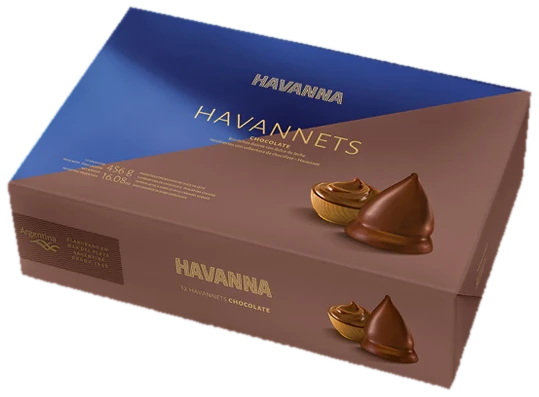
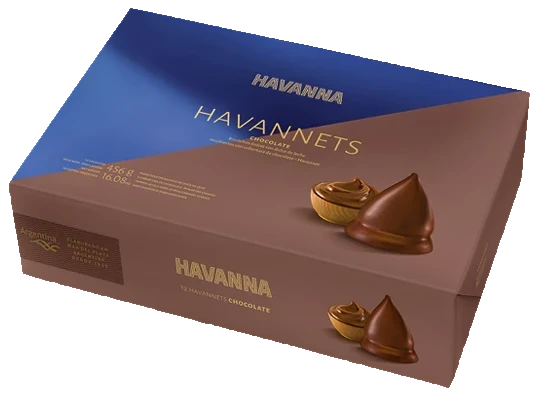
Mejoras de diseño: hero, sección adentro y cada caja su color
- Hero: tapa que se dobla en la línea roja del marco, botones a los costados
  (Comprar como botón, Buscar un café como link) y sin "Abrí la caja".
- Lo que hay adentro: números en círculos rojos con latido lento, nombres sin
  contenedor, chocolates más abajo y sin "Y estos, enteros, para después".
- Cada caja, su color: título en una línea y tarjetas debajo en cualquier alto
  de pantalla, scroll más lento al abrir los paneles, contenido que entra
  entre el nav y el índice, y el índice marca el panel correcto.
- Fotos: recortes limpios (piso y halos del fondo original) en las cajas y
  en las galletitas con limón.

diff --git a/styles.css b/styles.css
@@ -81,6 +81,9 @@ ul, ol { padding: 0; list-style: none; }
 .cabecera { position: fixed; inset: 0 0 auto; z-index: 50; height: var(--cabecera); padding: 0 var(--margen); display: flex; align-items: center; gap: 1rem; transition: background .35s, box-shadow .35s; }
 .cabecera.con-fondo { background: var(--amarillo); box-shadow: 0 1px 0 rgba(42, 23, 16, .15); }
 /* con la caja cerrada la marca ya está en la tapa: la cabecera no la repite */
+/* mientras la caja está cerrada o abriéndose, el nav es el borde amarillo de la caja: tapa lo que gira detrás */
+/* la sombra amarilla cubre los 4px entre el nav y la bisagra; al abrirse la caja desaparece con la clase */
+.cabecera.en-tapa { background: var(--amarillo); box-shadow: 0 .25rem 0 var(--amarillo); }
 .cabecera.en-tapa .cabecera__logo { opacity: 0; pointer-events: none; }
 .cabecera__logo { margin-right: auto; min-height: 2.75rem; display: flex; align-items: center; transition: opacity .4s; }
 .cabecera__logo img { width: 8.5rem; }
@@ -110,7 +113,9 @@ ul, ol { padding: 0; list-style: none; }
 /* ---------- 1 · la caja ---------- */
 
 .caja { position: relative; height: 100svh; }
-.caja__escena { position: relative; height: 100svh; overflow: hidden; perspective: 1800px; background: var(--crema); }
+.caja__escena { position: relative; height: 100svh; overflow: hidden; perspective: 1800px; perspective-origin: 50% calc(var(--cabecera) + .25rem); background: var(--crema); }
+/* el borde amarillo de la caja, arriba de la bisagra: se desvanece (--tira) cuando la tapa termina de abrirse */
+.caja__escena::before { content: ""; position: absolute; inset: 0 0 auto; height: calc(var(--cabecera) + .25rem); z-index: 4; background: var(--amarillo); opacity: var(--tira, 1); pointer-events: none; }
 
 /* el frente: igual que la caja real, amarillo con filete doble, logo y el producto */
 .frente {
@@ -118,7 +123,10 @@ ul, ol { padding: 0; list-style: none; }
   background: var(--amarillo);
   display: grid; grid-template-rows: 1fr auto;
   padding: calc(var(--cabecera) + 1.75rem) calc(var(--margen) + .75rem) 2.25rem;
-  transform-origin: 50% 0;
+  /* la bisagra de la tapa es la línea roja de arriba del marco */
+  transform-origin: 50% calc(var(--cabecera) + .25rem);
+  /* la tapa empieza en la bisagra: lo de arriba es el borde fijo de la caja y no gira */
+  clip-path: inset(calc(var(--cabecera) + .25rem) 0 0 0);
   backface-visibility: hidden;
   will-change: transform;
 }
@@ -138,26 +146,54 @@ ul, ol { padding: 0; list-style: none; }
 .frente__alfajor { height: min(36svh, 72vw); width: auto; margin-top: 1.5rem; filter: drop-shadow(0 26px 28px rgba(122, 61, 0, .38)); will-change: transform; }
 .frente__pie { display: grid; justify-items: center; gap: .85rem; }
 .frente__acciones { display: flex; flex-wrap: wrap; justify-content: center; gap: .6rem; width: 100%; max-width: 28rem; }
-.frente__acciones .boton { flex: 1 1 11rem; }
+.frente__acciones { flex-direction: column; align-items: center; }
+.frente__acciones .boton { align-self: stretch; }
+/* botones del hero: píldora, con relieve suave y una flecha que avanza */
+.frente__acciones .boton {
+  min-height: 3.5rem; border-radius: 999px; border-width: 1.5px; padding: 0 1.6rem;
+  font-weight: 650; letter-spacing: .01em;
+  transition: background .3s, color .3s, border-color .3s, box-shadow .35s var(--curva), transform .35s var(--curva);
+}
+.frente__acciones .boton svg { width: 1.15rem; height: 1.15rem; fill: none; stroke: currentColor; stroke-width: 2; stroke-linecap: round; stroke-linejoin: round; }
+.frente__acciones .boton--rojo {
+  padding-right: .45rem; gap: .9rem;
+  border: 0; box-shadow: 0 10px 24px -10px rgba(181, 30, 18, .7);
+}
+.boton__flecha { display: grid; place-items: center; width: 2.6rem; height: 2.6rem; border-radius: 50%; background: var(--crema); color: var(--rojo); transition: transform .35s var(--curva); }
+/* "Buscar un café" es un link, no un botón: acompaña sin competir con "Comprar" */
+.frente__link {
+  display: inline-flex; align-items: center; gap: .5rem; min-height: 3rem; padding: 0 .25rem;
+  font: 600 .95rem/1 var(--texto); color: var(--choco); text-decoration: none;
+}
+.frente__link svg { width: 1.1rem; height: 1.1rem; fill: none; stroke: currentColor; stroke-width: 2; stroke-linecap: round; stroke-linejoin: round; flex: none; }
+.frente__link span { background: linear-gradient(currentColor, currentColor) 0 100% / 100% 1.5px no-repeat; padding-bottom: .2rem; transition: background-size .35s var(--curva); }
+.frente__link:focus-visible { outline: 2px solid var(--choco); outline-offset: 3px; border-radius: .25rem; }
+@media (hover: hover) {
+  .frente__acciones .boton:hover { transform: translateY(-2px); }
+  .frente__acciones .boton--rojo:hover { box-shadow: 0 16px 30px -12px rgba(181, 30, 18, .8); }
+  .frente__acciones .boton--rojo:hover .boton__flecha { transform: translateX(3px) rotate(-45deg); }
+  .frente__link:hover { color: var(--rojo); }
+  .frente__link:hover span { background-size: 0 1.5px; background-position: 100% 100%; }
+}
+.frente__acciones .boton:active { transform: translateY(0) scale(.97); }
+.frente__acciones .boton:focus-visible { outline: 2px solid var(--choco); outline-offset: 3px; }
 .frente__envio { display: flex; align-items: center; gap: .45rem; font-size: .85rem; color: var(--choco-medio); }
 .frente__envio::before { content: ""; width: .45rem; height: .45rem; border-radius: 50%; background: var(--rojo); }
-.frente__abrir { display: none; }
 
 @media (min-width: 64rem) {
-  .frente { padding-bottom: 2.75rem; }
+  /* sin fila de botones abajo: el centro tiene todo el alto y el logo no se sale hacia el marco */
+  /* más aire arriba: el logo arranca bien por debajo del filete del marco y no lo toca */
+  .frente { grid-template-rows: 1fr; padding-top: calc(var(--cabecera) + 3.5rem); padding-bottom: 2.75rem; }
   .frente__esquina { font-size: .72rem; }
   .frente__esquina--izq { left: 1.6rem; }
   .frente__esquina--der { right: 1.6rem; }
   .frente__alfajor { height: min(40svh, 26rem); }
-  .frente__abrir {
-    position: absolute; right: 3rem; bottom: 2.75rem;
-    display: grid; justify-items: center; gap: .55rem;
-    border: 0; background: none; padding: 0; cursor: pointer;
-    font: 600 .7rem/1 var(--texto); letter-spacing: .16em; text-transform: uppercase; color: var(--choco);
-  }
-  .frente__abrir i { width: 1px; height: 2.25rem; background: currentColor; animation: bajar 1.8s var(--curva) infinite; }
+  /* un botón en cada costado, abajo; el centro queda libre para el alfajor */
+  .frente__pie { position: absolute; left: 3rem; right: 3rem; bottom: 2.75rem; z-index: 1; justify-items: start; pointer-events: none; }
+  .frente__acciones { flex-direction: row; align-items: center; justify-content: space-between; flex-wrap: nowrap; max-width: none; }
+  .frente__acciones .boton { align-self: auto; }
+  .frente__acciones .boton, .frente__link { flex: none; pointer-events: auto; }
 }
-@keyframes bajar { 0% { transform: scaleY(0); transform-origin: top; } 50% { transform: scaleY(1); transform-origin: top; } 51% { transform-origin: bottom; } 100% { transform: scaleY(0); transform-origin: bottom; } }
 
 /* adentro de la caja: alfajores enteros apilados y uno partido apoyado */
 .adentro { position: absolute; inset: 0; display: grid; place-items: center; align-content: center; gap: 1.5rem; padding-top: var(--cabecera); }
@@ -170,18 +206,21 @@ ul, ol { padding: 0; list-style: none; }
 /* cada alfajor apoya sobre la tapa del de abajo (la tapa ocupa el 11% de su alto) */
 .apilado__alfajor { position: absolute; left: 0; bottom: calc(var(--i) * var(--a) * .62); width: 100%; z-index: var(--i); filter: drop-shadow(0 10px 12px rgba(42, 23, 16, .25)); will-change: transform; }
 .apilado__alfajor--espejo { transform: scaleX(-1); }
-.apilado__nota { display: none; }
 
 .partido { position: relative; width: calc(var(--a) * 1.05); margin-left: calc(var(--a) * -.1); z-index: 5; }
 .partido img { width: 100%; filter: drop-shadow(0 18px 18px rgba(42, 23, 16, .28)); }
 /* el punto marca la capa; en el celu lleva el número y la referencia va abajo */
 .partido__nota { position: absolute; left: var(--x); top: var(--y); transform: translate(-50%, -50%); }
-.partido__nota b { display: grid; place-items: center; width: 1.35rem; height: 1.35rem; border-radius: 50%; background: var(--crema); color: var(--choco); font: 700 .7rem/1 var(--texto); box-shadow: 0 0 0 2px var(--rojo), 0 4px 10px rgba(42, 23, 16, .3); }
-.partido__nota span { display: none; }
+/* número: punto rojo con halo crema, como un pin sobre la capa */
+.partido__nota b, .leyenda b {
+  display: grid; place-items: center; width: 1.5rem; height: 1.5rem; border-radius: 50%;
+  background: var(--rojo); color: var(--crema); font: 700 .72rem/1 var(--texto); font-variant-numeric: tabular-nums;
+  box-shadow: 0 0 0 3px rgba(255, 246, 222, .9), 0 6px 14px -4px rgba(42, 23, 16, .45);
+}
+.partido__nota i, .partido__nota span { display: none; }
 
-.leyenda { display: flex; flex-wrap: wrap; justify-content: center; gap: .5rem 1.1rem; padding: 0 var(--margen); font: 600 .78rem/1 var(--texto); }
-.leyenda li { display: flex; align-items: center; gap: .4rem; }
-.leyenda b { display: grid; place-items: center; width: 1.25rem; height: 1.25rem; border-radius: 50%; background: var(--crema); box-shadow: 0 0 0 2px var(--rojo); font-size: .66rem; }
+.leyenda { display: flex; flex-wrap: wrap; justify-content: center; gap: .6rem 1.2rem; padding: 0 var(--margen); font: 600 .78rem/1 var(--texto); }
+.leyenda li { display: flex; align-items: center; gap: .5rem; }
 
 .volador { position: absolute; inset: 0; pointer-events: none; }
 .volador img { position: absolute; left: 50%; top: 52%; width: calc(var(--w) * 1vw + 3rem); filter: var(--sombra-producto); opacity: 0; will-change: transform; }
@@ -190,20 +229,29 @@ ul, ol { padding: 0; list-style: none; }
 
 @media (min-width: 64rem) {
   .mesa { --a: min(16vw, 30svh, 17rem); margin-top: 3rem; }
-  .apilado__nota {
-    display: flex; align-items: center; gap: .6rem;
-    position: absolute; right: calc(100% + .5rem); top: 45%;
-    font: italic 400 1.15rem/1.15 var(--nota); color: var(--choco-medio); white-space: nowrap;
-  }
-  .apilado__nota::after { content: ""; width: 2.5rem; height: 1.5px; background: var(--choco); }
-  /* en compu la etiqueta sale del punto con una línea hasta el costado derecho */
+  /* en compu: el número va en un círculo rojo que late; de ahí sale una línea fina hasta el nombre */
   .partido { container-type: inline-size; }
-  .partido__nota { display: flex; align-items: center; transform: translate(-.675rem, -50%); }
-  .partido__nota b { flex: none; }
-  .partido__nota span { display: flex; align-items: center; gap: .6rem; font: 700 .8rem/1 var(--texto); letter-spacing: .08em; text-transform: uppercase; white-space: nowrap; }
-  .partido__nota span::before { content: ""; width: calc((100% - var(--x)) * 1 + 2.5rem); width: calc((100 - var(--n)) * 1cqw + 2.5rem); height: 1.5px; background: var(--choco); box-shadow: 0 0 0 1px rgba(255, 246, 222, .5); }
+  .partido__nota { display: flex; align-items: center; transform: translate(-.6rem, -50%); --retraso: 0s; }
+  .partido__nota:nth-of-type(2) { --retraso: .7s; }
+  .partido__nota:nth-of-type(3) { --retraso: 1.4s; }
+  .partido__nota b { flex: none; position: relative; z-index: 1; width: 1.2rem; height: 1.2rem; font-size: .6rem; box-shadow: 0 0 0 2.5px rgba(255, 246, 222, .9), 0 4px 10px -3px rgba(42, 23, 16, .45); }
+  .partido__nota b::before, .partido__nota b::after {
+    content: ""; position: absolute; inset: 0; z-index: -1; border-radius: 50%; border: 1.5px solid var(--rojo);
+    animation: latido 4.2s cubic-bezier(.25, .6, .35, 1) var(--retraso) infinite both;
+  }
+  .partido__nota b::after { animation-delay: calc(var(--retraso) + 2.1s); }
+  .partido__nota i {
+    display: block; position: relative; flex: none; height: 1px; margin-left: 3px;
+    width: calc((100 - var(--n)) * 1cqw + 2.5rem);
+    background: linear-gradient(90deg, rgba(42, 23, 16, .1), var(--choco));
+  }
+  .partido__nota span {
+    display: block; margin-left: .8rem;
+    font: 700 .78rem/1 var(--texto); letter-spacing: .1em; text-transform: uppercase; white-space: nowrap; color: var(--choco);
+  }
   .leyenda { display: none; }
   .volador img { width: calc(var(--w) * .8vw + 3rem); }
+  @keyframes latido { 0% { transform: scale(1); opacity: .7; } 100% { transform: scale(2.8); opacity: 0; } }
   .volador img[data-solo-compu] { display: block; }
 }
 
@@ -222,13 +270,16 @@ ul, ol { padding: 0; list-style: none; }
 .lineas__titulo { position: absolute; top: calc(var(--cabecera) + 1.25rem); left: var(--margen); font: 900 clamp(2.6rem, 10vw, 5.5rem)/.86 var(--display); text-transform: uppercase; }
 .lineas__titulo .hueco { -webkit-text-stroke-color: var(--choco); }
 
+/* --t y --b registradas como longitudes: el navegador las resuelve a px y GSAP las anima sin mezclar unidades */
+@property --t { syntax: '<length-percentage>'; inherits: true; initial-value: 0px; }
+@property --b { syntax: '<length-percentage>'; inherits: true; initial-value: 0px; }
 /* cada panel es de pantalla completa; el recorte lo muestra como tarjeta hasta que se abre */
 .panel { position: absolute; inset: 0; background: var(--fondo); color: var(--tinta); clip-path: inset(var(--t) var(--r) var(--b) var(--l) round var(--radio)); --radio: 1rem; }
 /* celu: 2 x 2 con el mismo margen entre tarjetas que contra los bordes, y aire sobre el índice */
-.panel:nth-of-type(1) { --t: 30%; --r: 51.5%; --b: 40.5%; --l: 5%; }
-.panel:nth-of-type(2) { --t: 30%; --r: 5%; --b: 40.5%; --l: 51.5%; }
-.panel:nth-of-type(3) { --t: 62.5%; --r: 51.5%; --b: 10%; --l: 5%; }
-.panel:nth-of-type(4) { --t: 62.5%; --r: 5%; --b: 10%; --l: 51.5%; }
+.panel:nth-of-type(1) { --t: 30svh; --r: 51.5%; --b: 40.5svh; --l: 5%; }
+.panel:nth-of-type(2) { --t: 30svh; --r: 5%; --b: 40.5svh; --l: 51.5%; }
+.panel:nth-of-type(3) { --t: 62.5svh; --r: 51.5%; --b: 10svh; --l: 5%; }
+.panel:nth-of-type(4) { --t: 62.5svh; --r: 5%; --b: 10svh; --l: 51.5%; }
 
 /* la tarjeta sigue al recorte: su caja crece con él */
 .panel__tarjeta { position: absolute; inset: var(--t) var(--r) var(--b) var(--l); display: grid; grid-template-rows: minmax(0, 1fr) auto; gap: .75rem; padding: 1.25rem 1.1rem 1.1rem; border: 0; background: none; color: inherit; font: inherit; text-align: left; cursor: pointer; }
@@ -284,19 +335,34 @@ ul, ol { padding: 0; list-style: none; }
 .panel__fotos img:nth-child(3) { transform: rotate(-2deg); }
 
 @media (min-width: 64rem) {
-  /* compu: cuatro tarjetas de 21.5% con 2% de margen entre ellas */
-  .panel:nth-of-type(1) { --t: 33%; --r: 74.5%; --b: 13%; --l: 4%; }
-  .panel:nth-of-type(2) { --t: 33%; --r: 51%; --b: 13%; --l: 27.5%; }
-  .panel:nth-of-type(3) { --t: 33%; --r: 27.5%; --b: 13%; --l: 51%; }
-  .panel:nth-of-type(4) { --t: 33%; --r: 4%; --b: 13%; --l: 74.5%; }
+  /* compu: el título va en una línea y su tamaño sigue al alto de la pantalla */
+  .lineas { --titulo: clamp(2.8rem, min(5.5vw, 11svh), 5.5rem); }
+  .lineas__titulo { font-size: var(--titulo); white-space: nowrap; }
+  .lineas__titulo br { display: none; }
+  .lineas__titulo .hueco { margin-left: .2em; }
+  /* compu: cuatro tarjetas de 21.5% con 2% de margen; arrancan justo debajo del título y terminan sobre el índice */
+  .lineas .panel { --t: calc(var(--cabecera) + 1.25rem + var(--titulo) * .86 + 1.5rem); --b: 5rem; }
+  .panel:nth-of-type(1) { --r: 74.5%; --l: 4%; }
+  .panel:nth-of-type(2) { --r: 51%; --l: 27.5%; }
+  .panel:nth-of-type(3) { --r: 27.5%; --l: 51%; }
+  .panel:nth-of-type(4) { --r: 4%; --l: 74.5%; }
   .panel__tarjeta { padding: 1.4rem; }
   /* compu: contenido en una caja centrada de ancho fijo, con aire a los costados */
-  .panel__contenido { grid-template-columns: minmax(0, 30rem) minmax(0, 1fr); column-gap: clamp(3rem, 6vw, 7rem); align-content: center; justify-content: center; padding: calc(var(--cabecera) + 2rem) clamp(2rem, 7vw, 8rem) 6.5rem; }
+  .panel__contenido { grid-template-columns: minmax(0, 30rem) minmax(0, 1fr); column-gap: clamp(3rem, 6vw, 7rem); align-content: safe center; justify-content: center; row-gap: .7rem; padding: calc(var(--cabecera) + 1.5rem) clamp(2rem, 7vw, 8rem) 5.5rem; }
   .panel__contenido > :not(.panel__fotos) { grid-column: 1; }
-  .panel__nombre { font-size: clamp(4.5rem, 8.5vw, 9rem); }
+  .panel__nombre { font-size: clamp(3.4rem, min(8.5vw, 15svh), 9rem); }
   /* las fotos ocupan exactamente las 5 filas del texto: así el bloque queda centrado igual en todas las líneas */
   .panel__fotos { grid-column: 2; grid-row: 1 / 6; align-self: center; justify-self: center; margin: 0; }
-  .panel__fotos img { width: clamp(12rem, 17vw, 19rem); }
+  .panel__fotos img { width: clamp(11rem, min(17vw, 38svh), 19rem); }
+}
+/* compu con pantalla baja: todo un poco más compacto para que no lo corte el nav */
+@media (min-width: 64rem) and (max-height: 760px) {
+  .panel__contenido { row-gap: .45rem; }
+  .panel__dato { font-size: 1.05rem; }
+  .panel__lista a { padding: .5rem 0; }
+  .panel__item-precio { font-size: 1.15rem; }
+  .panel__pie { margin-top: .35rem; }
+  .panel__pie .boton { min-height: 2.85rem; }
 }
 
 /* ---------- 5 · havanna × leo ---------- */

diff --git a/main.js b/main.js
@@ -140,6 +140,8 @@ if (!sinMovimiento && window.gsap && window.ScrollTrigger) {
     // la tapa gira hacia arriba sobre su borde superior y se oscurece al darse vuelta
     .fromTo('[data-frente]', { rotationX: 0, '--sombra-tapa': 0 }, { rotationX: -96, '--sombra-tapa': .55, duration: 1, ease: 'power2.in' }, 0)
     .set('[data-frente]', { autoAlpha: 0 }, 1)
+    // el borde amarillo de arriba de la bisagra se va recién con la tapa abierta: no asoma el fondo crema
+    .fromTo('.caja__escena', { '--tira': 1 }, { '--tira': 0, duration: .25 }, .9)
     .fromTo('[data-adentro-titulo] span', { yPercent: 60, opacity: 0 }, { yPercent: 0, opacity: 1, stagger: .1, duration: .5, ease: 'power2.out' }, .7)
     .addLabel('abierta', 1.1);
   // los alfajores caen uno por uno y rebotan al apoyarse
@@ -159,10 +161,6 @@ if (!sinMovimiento && window.gsap && window.ScrollTrigger) {
       3 + i * .08);
   });
   caja.to({}, { duration: .6 });
-
-  // el botón y el foco con teclado abren la caja
-  const abrir = () => irA(aScroll(caja, 'abierta'));
-  $('[data-abrir-caja]').addEventListener('click', abrir);
 
   /* cinta: corre sola y acelera con la velocidad del scroll */
   const cinta = gsap.to('[data-cinta]', { xPercent: -50, duration: 22, ease: 'none', repeat: -1 });
@@ -184,29 +182,31 @@ if (!sinMovimiento && window.gsap && window.ScrollTrigger) {
   const botonesIndice = $$('[data-indice] [data-ir-panel]');
   const inicios = paneles.map((_, i) => .5 + i * 1.4);
   const lineas = gsap.timeline({
+    // el índice marca la línea que está a la vista; va en el timeline (no en el scroll) porque
+    // con scrub la animación llega después que el scroll y el índice quedaba un panel atrás
+    onUpdate: () => {
+      const ahora = lineas.time();
+      const activa = inicios.reduce((a, t, i) => (ahora >= t + .5 ? i : a), -1);
+      botonesIndice.forEach((b, i) => {
+        const era = b.getAttribute('aria-current') === 'true';
+        if (era === (i === activa)) return;
+        b.setAttribute('aria-current', String(i === activa));
+        // en el celu el índice se desliza: la línea activa queda siempre a la vista
+        if (i === activa) b.parentElement.scrollTo({ left: b.offsetLeft - (b.parentElement.clientWidth - b.offsetWidth) / 2, behavior: 'smooth' });
+      });
+    },
     scrollTrigger: {
-      trigger: '[data-lineas]', start: 'top top', end: () => `+=${paneles.length * 85}%`, pin: true, scrub: .8, anticipatePin: 1, invalidateOnRefresh: true,
-      // el índice marca la línea que está a la vista
-      onUpdate: () => {
-        const ahora = lineas.time();
-        const activa = inicios.reduce((a, t, i) => (ahora >= t + .5 ? i : a), -1);
-        botonesIndice.forEach((b, i) => {
-          const era = b.getAttribute('aria-current') === 'true';
-          b.setAttribute('aria-current', String(i === activa));
-          // en el celu el índice se desliza: la línea activa queda siempre a la vista
-          if (i === activa && !era) b.parentElement.scrollTo({ left: b.offsetLeft - (b.parentElement.clientWidth - b.offsetWidth) / 2, behavior: 'smooth' });
-        });
-      },
+      trigger: '[data-lineas]', start: 'top top', end: () => `+=${paneles.length * 140}%`, pin: true, scrub: 1.4, anticipatePin: 1, invalidateOnRefresh: true,
     },
   });
   paneles.forEach((panel, i) => {
     const t = .5 + i * 1.4;
     const contenido = $('.panel__contenido', panel);
     // a partir del segundo, cada caja sube desde abajo y tapa a la anterior
-    if (i > 0) lineas.set(panel, { '--t': '100%', '--r': '0%', '--b': '0%', '--l': '0%', '--radio': '0rem' }, t - .01);
+    if (i > 0) lineas.set(panel, { '--t': () => `${panel.offsetHeight}px`, '--r': '0%', '--b': '0px', '--l': '0%', '--radio': '0rem' }, t - .01);
     lineas
       .set(panel, { zIndex: 10 + i }, t - .01)
-      .to(panel, { '--t': '0%', '--r': '0%', '--b': '0%', '--l': '0%', '--radio': '0rem', duration: 1, ease: 'power3.inOut' }, t)
+      .to(panel, { '--t': '0px', '--r': '0%', '--b': '0px', '--l': '0%', '--radio': '0rem', duration: 1, ease: 'power3.inOut' }, t)
       .to($('.panel__tarjeta', panel), { opacity: 0, duration: .25 }, t + .45)
       .fromTo(contenido, { autoAlpha: 0 }, { autoAlpha: 1, duration: .25 }, t + .6)
       .fromTo($('.panel__nombre', panel), { yPercent: 40 }, { yPercent: 0, duration: .5, ease: 'power3.out' }, t + .6)

diff --git a/index.html b/index.html
@@ -60,7 +60,7 @@
         <h2 class="adentro__titulo" data-adentro-titulo><span>Lo que hay</span><span class="hueco">adentro</span></h2>
 
         <div class="volador" aria-hidden="true" data-voladores>
-          <img src="img/coronitas-sueltas.webp" alt="" style="--x:35;--y:-26;--xm:26;--ym:-31;--g:-10;--w:13" loading="lazy">
+          <img src="img/coronitas-sueltas.webp" alt="" style="--x:35;--y:-14;--xm:26;--ym:-31;--g:-10;--w:13" loading="lazy">
           <img src="img/galletitas-sueltas.webp" alt="" style="--x:-34;--y:31;--xm:-24;--ym:36;--g:6;--w:14" loading="lazy">
           <img src="img/trufas-sueltas.webp" alt="" style="--x:35;--y:35;--g:8;--w:13" data-solo-compu loading="lazy">
         </div>
@@ -70,13 +70,12 @@
             <img class="apilado__alfajor" data-alfajor style="--i:0" src="img/entero-arriba.webp" alt="" width="379" height="264">
             <img class="apilado__alfajor apilado__alfajor--espejo" data-alfajor style="--i:1" src="img/entero-arriba.webp" alt="" width="379" height="264">
             <img class="apilado__alfajor" data-alfajor style="--i:2" src="img/entero-arriba.webp" alt="Tres alfajores Havanna enteros, apilados" width="379" height="264">
-            <p class="apilado__nota" data-nota>Y estos, enteros, para después</p>
           </div>
           <figure class="partido" data-partido>
             <img src="img/partido-apoyado.webp" alt="Alfajor Havanna partido, apoyado contra la pila, con el dulce de leche a la vista" width="399" height="403">
-            <figcaption class="partido__nota" data-nota style="--x:75%;--n:75;--y:15%"><b>1</b><span>Baño de chocolate</span></figcaption>
-            <figcaption class="partido__nota" data-nota style="--x:53%;--n:53;--y:27%"><b>2</b><span>Tapa</span></figcaption>
-            <figcaption class="partido__nota" data-nota style="--x:38%;--n:38;--y:50%"><b>3</b><span>Dulce de leche</span></figcaption>
+            <figcaption class="partido__nota" data-nota style="--x:75%;--n:75;--y:15%"><b>1</b><i aria-hidden="true"></i><span>Baño de chocolate</span></figcaption>
+            <figcaption class="partido__nota" data-nota style="--x:53%;--n:53;--y:27%"><b>2</b><i aria-hidden="true"></i><span>Tapa</span></figcaption>
+            <figcaption class="partido__nota" data-nota style="--x:38%;--n:38;--y:50%"><b>3</b><i aria-hidden="true"></i><span>Dulce de leche</span></figcaption>
           </figure>
         </div>
         <ol class="leyenda" data-leyenda aria-hidden="true">
@@ -100,15 +99,14 @@
         </div>
         <div class="frente__pie" data-frente-pie>
           <div class="frente__acciones">
-            <a class="boton boton--rojo" href="https://tienda.havanna.com.ar/alfajores/">Comprar alfajores</a>
-            <a class="boton boton--linea" href="#mundo">
+            <a class="boton boton--rojo" href="https://tienda.havanna.com.ar/alfajores/">Comprar alfajores<span class="boton__flecha" aria-hidden="true"><svg viewBox="0 0 24 24"><path d="M5 12h14M13 6l6 6-6 6"/></svg></span></a>
+            <a class="frente__link" href="#mundo">
               <svg aria-hidden="true" viewBox="0 0 24 24"><path d="M12 21s-6.5-5.6-6.5-11a6.5 6.5 0 0 1 13 0c0 5.4-6.5 11-6.5 11Z"/><circle cx="12" cy="10" r="2.3"/></svg>
-              Buscar un café
+              <span>Buscar un café</span>
             </a>
           </div>
           <p class="frente__envio">Envíos a CABA y GBA</p>
         </div>
-        <button class="frente__abrir" type="button" data-abrir-caja><span>Abrí la caja</span><i aria-hidden="true"></i></button>
       </div>
 
     </div>
